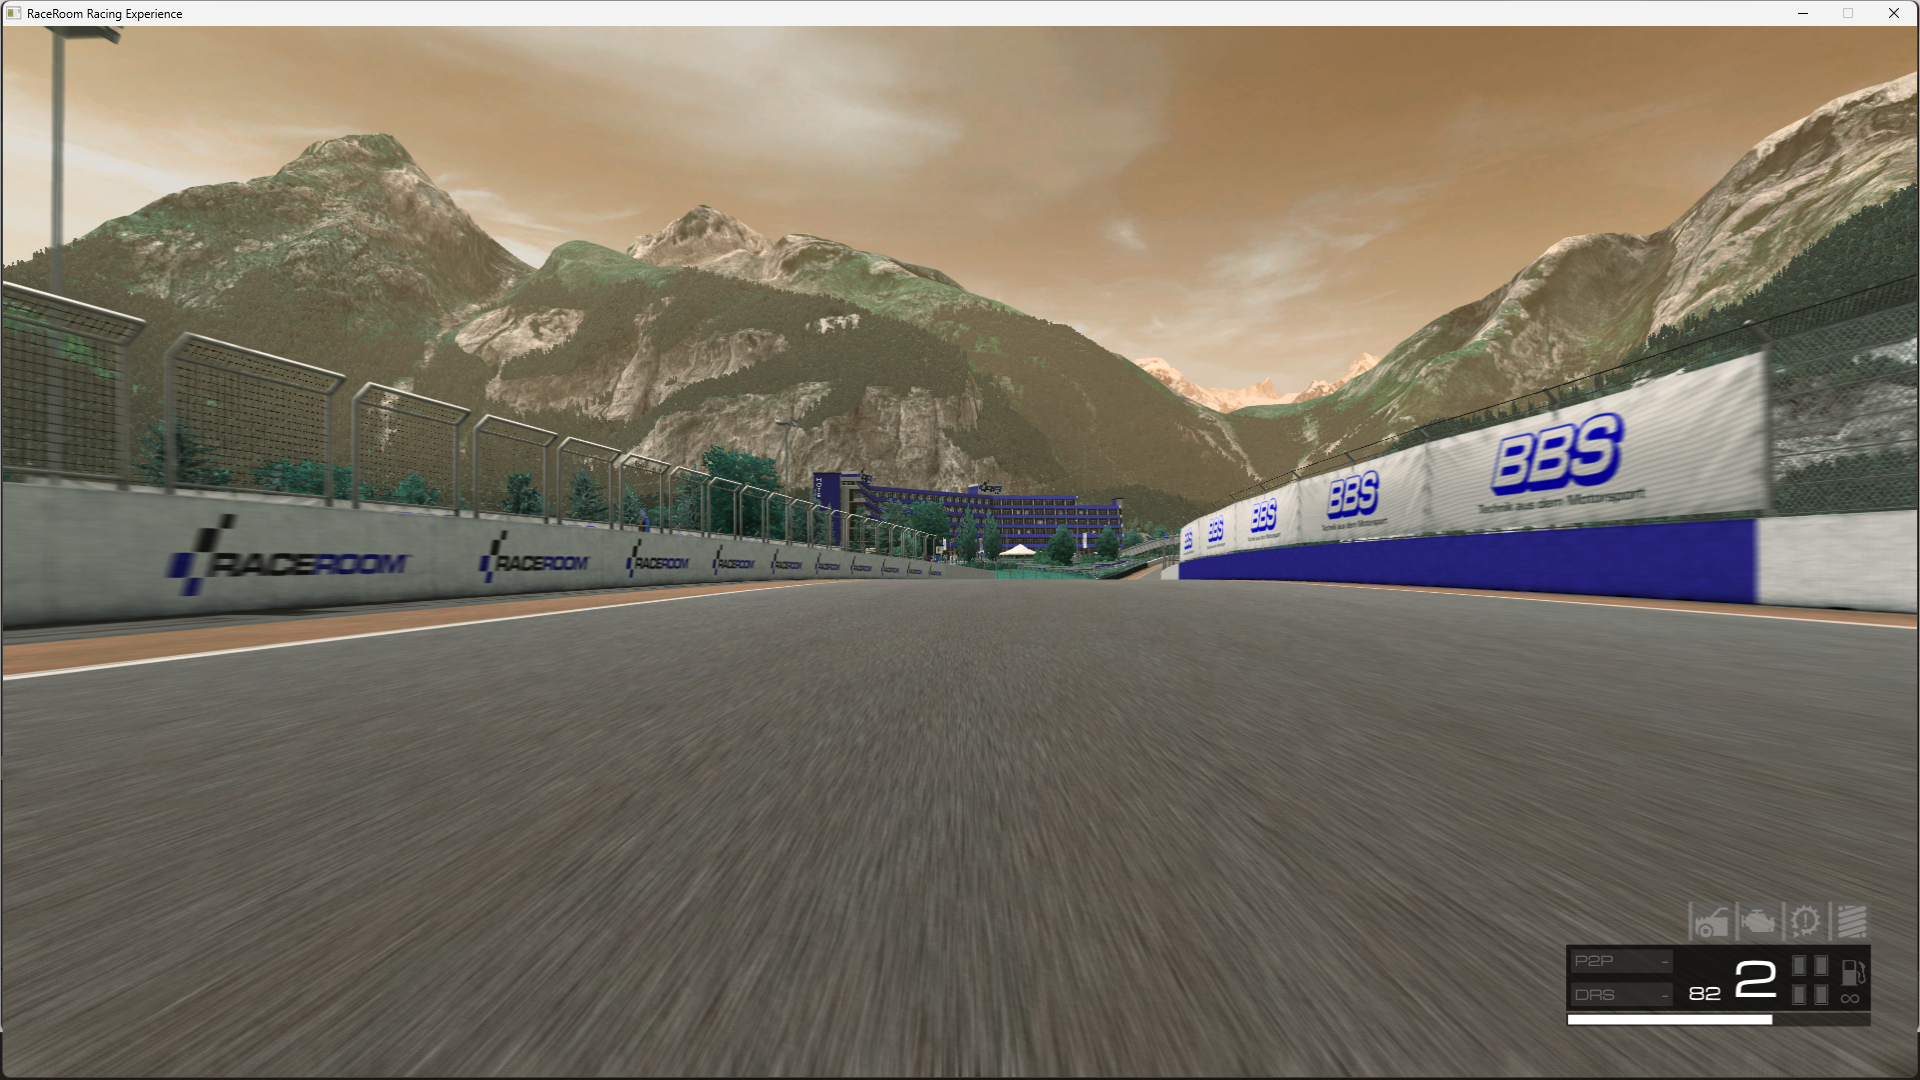
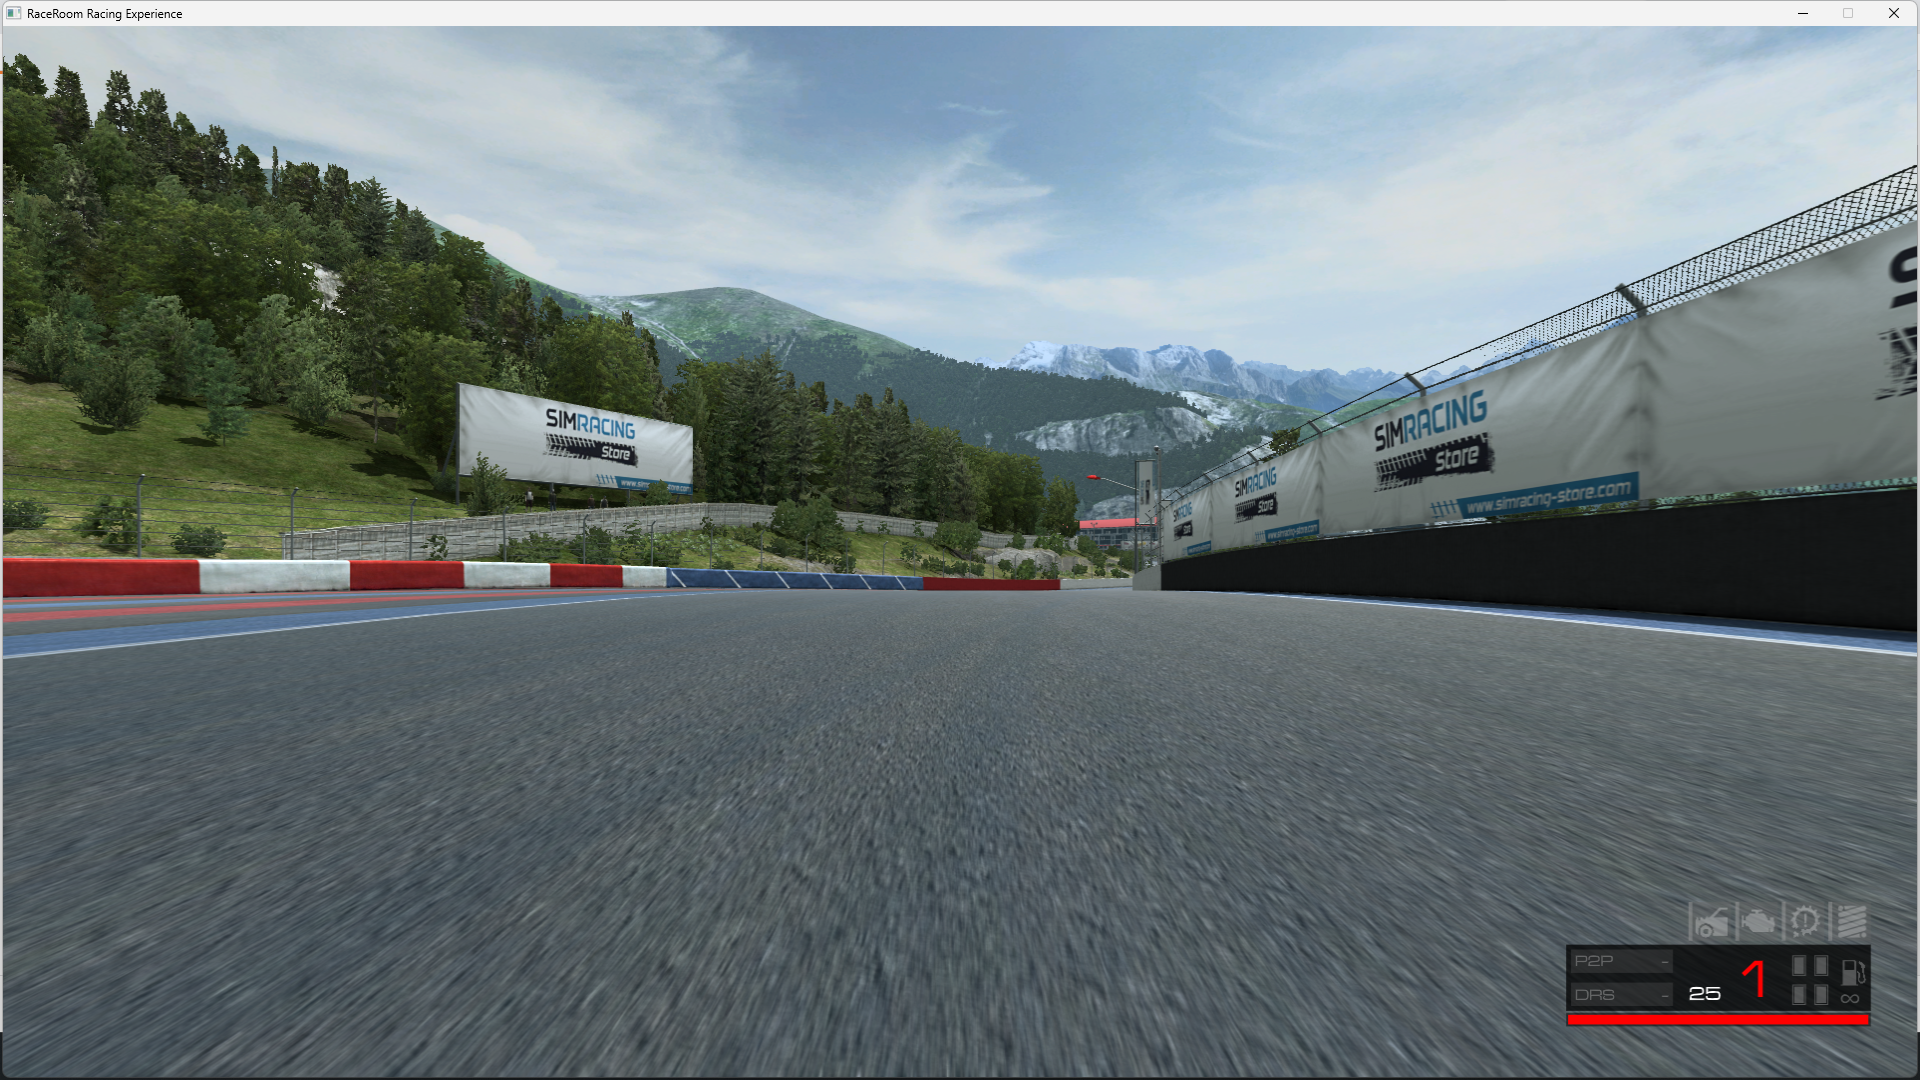
Fixed RGB issue

diff --git a/GameInterface.py b/GameInterface.py
@@ -4,7 +4,7 @@ from time import sleep
 import time, pyautogui
 from pynput.keyboard import Key, Controller
 import cv2 
-from numpy import asarray
+import numpy as np
     
 CameraRecord = []
 print("Digital Video Project: begin")
@@ -50,10 +50,11 @@ if __name__== '__main__':
       
     i=0
     for im in CameraRecord:
-        #CameraRecord[i].show()#Showing is very slow
+      #  CameraRecord[i].show()#Showing is very slow
         i=i+1
-        numpydata = asarray(im)
-        cv2.imwrite("test_"+str(i)+".png", numpydata) 
+        numpydata = np.array(im.convert('RGB'))
+        destRGB = cv2.cvtColor(numpydata, cv2.COLOR_BGR2RGB)
+        cv2.imwrite("test_"+str(i)+".png", destRGB) 
     print("end")
 
     
